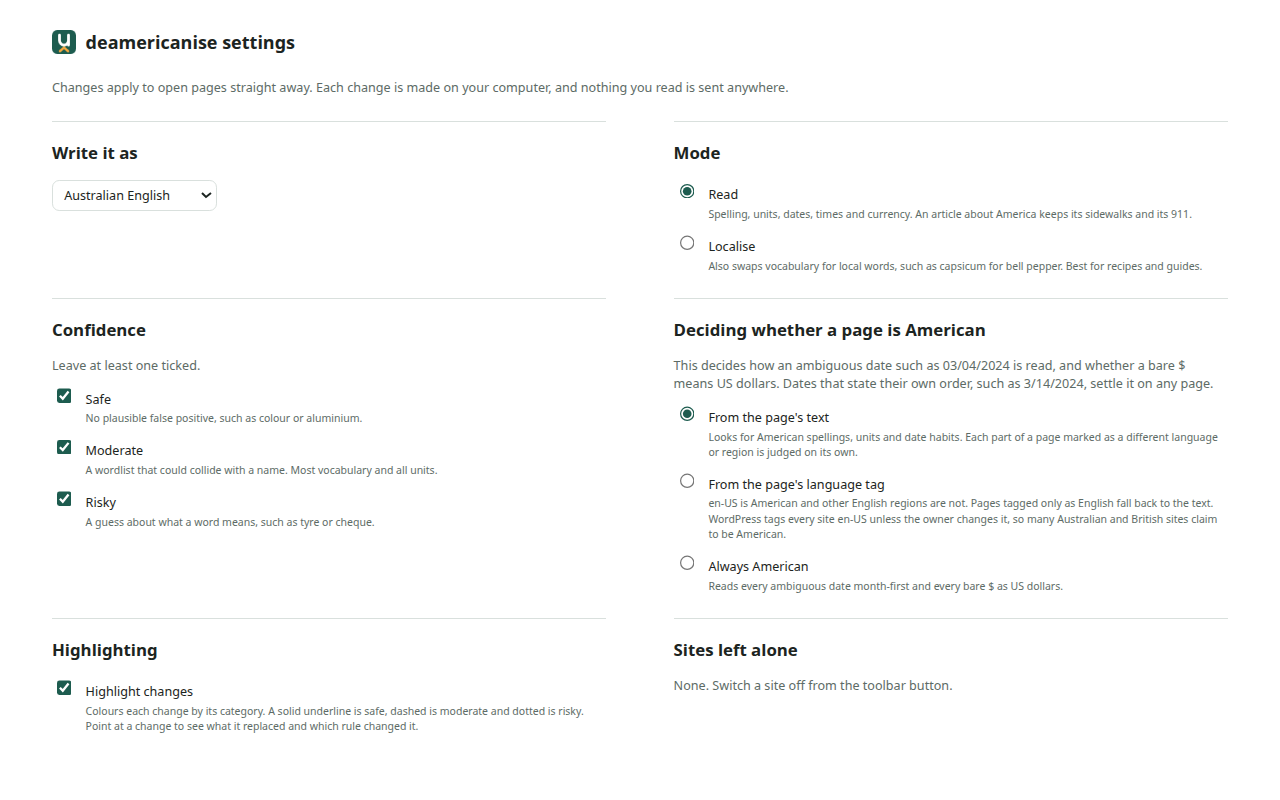
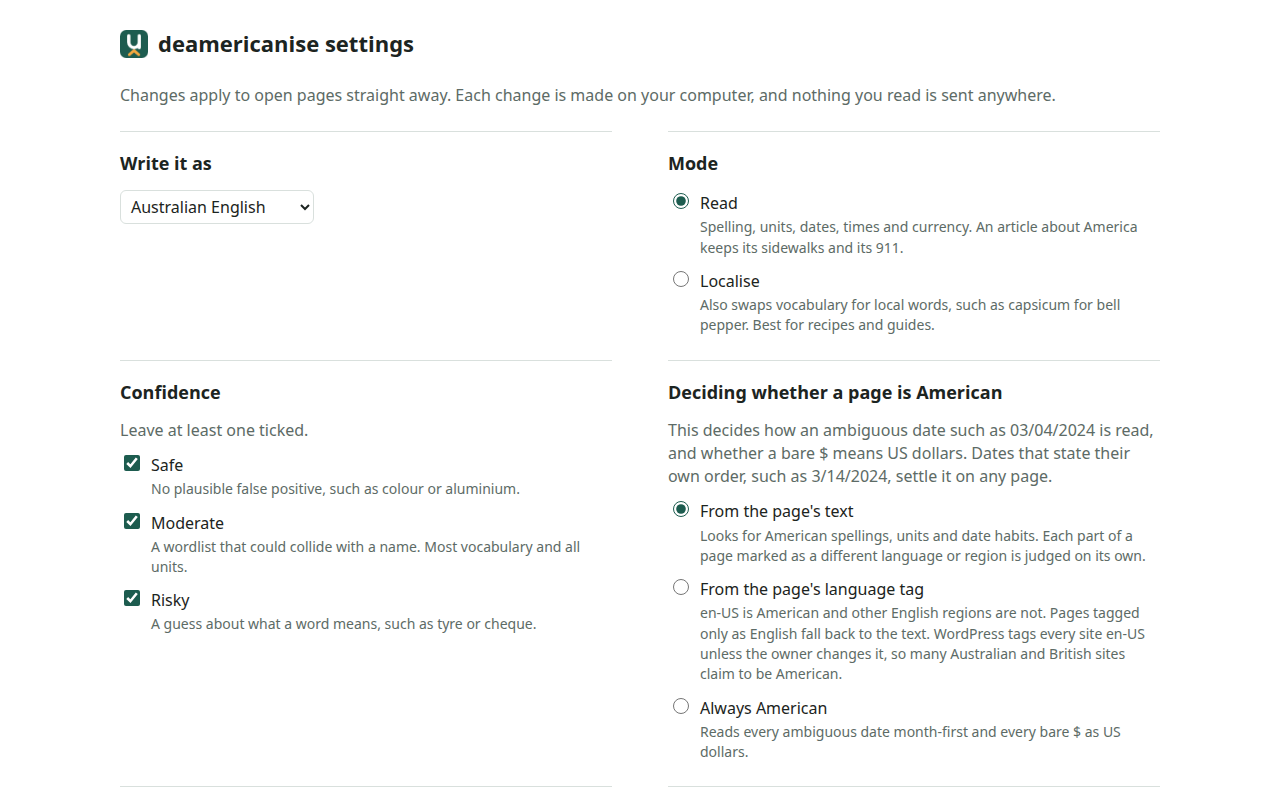
fix: make the extension settings readable at 100% zoom

diff --git a/extension/static/ui.css b/extension/static/ui.css
@@ -110,16 +110,31 @@ button.link {
 /* ------- Options page ------- */
 
 .options {
-  max-width: 640px;
+  max-width: 680px;
   margin: 0 auto;
-  padding: 24px 16px 48px;
+  padding: 28px 16px 48px;
   display: grid;
-  gap: 20px;
+  gap: 24px;
+  font-size: 16px;
+}
+
+.options h1 {
+  font-size: 22px;
+  gap: 10px;
+}
+
+.options h1 img {
+  width: 28px;
+  height: 28px;
+}
+
+.options h2 {
+  font-size: 18px;
 }
 
 @media (min-width: 1000px) {
   .options {
-    max-width: 980px;
+    max-width: 1040px;
     grid-template-columns: 1fr 1fr;
     column-gap: 56px;
   }
@@ -137,8 +152,8 @@ button.link {
 
 .options section {
   display: grid;
-  gap: 8px;
-  padding-top: 16px;
+  gap: 10px;
+  padding-top: 18px;
   border-top: 1px solid var(--line);
 }
 
@@ -150,11 +165,14 @@ button.link {
 }
 
 .choice input {
+  width: 16px;
+  height: 16px;
   accent-color: var(--accent);
 }
 
 .choice small {
   grid-column: 2;
+  font-size: 14px;
   color: var(--muted);
 }
 
